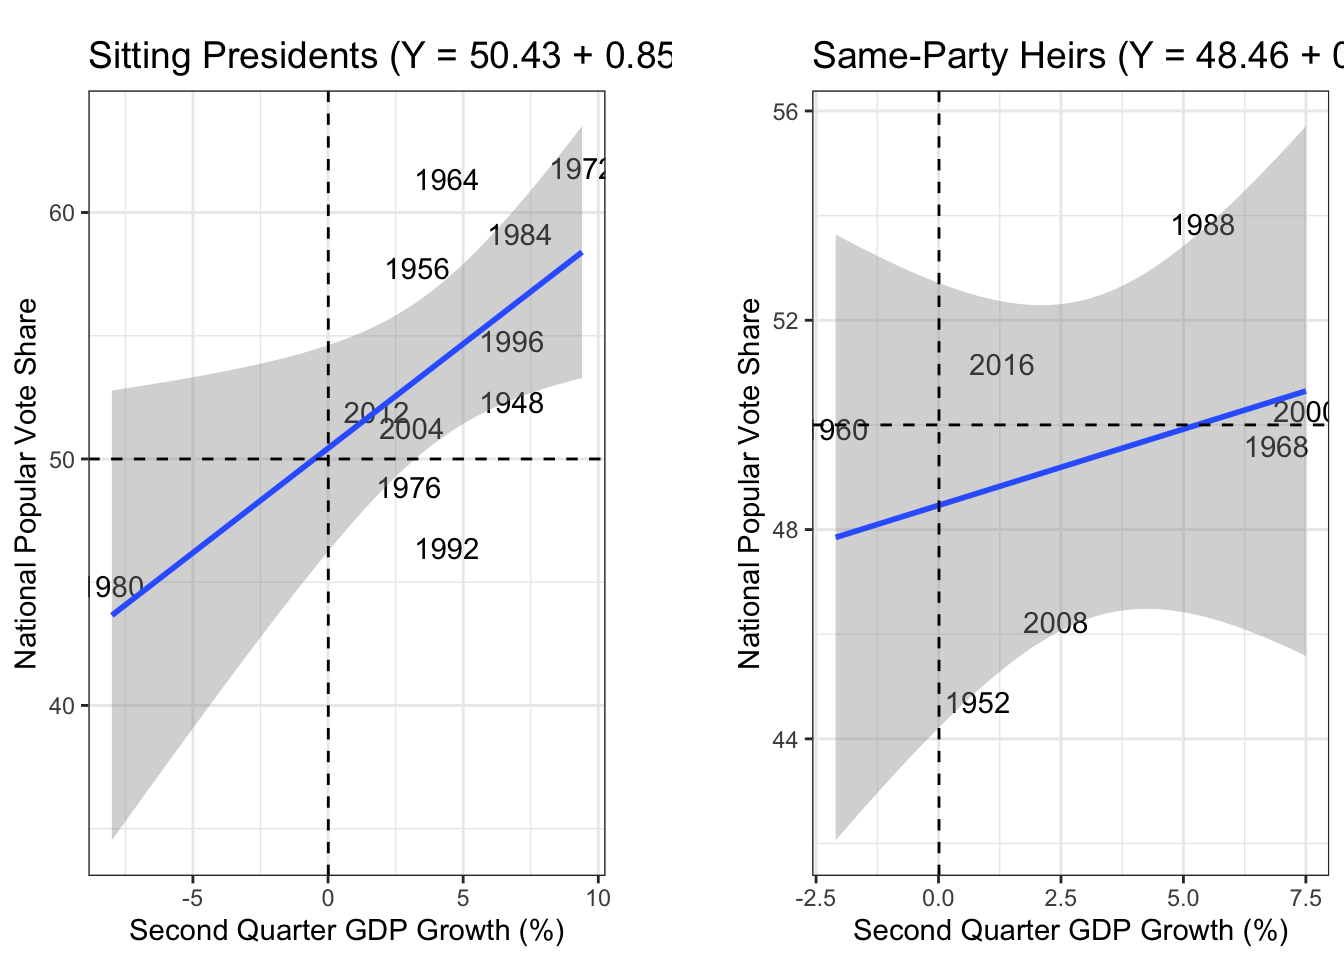
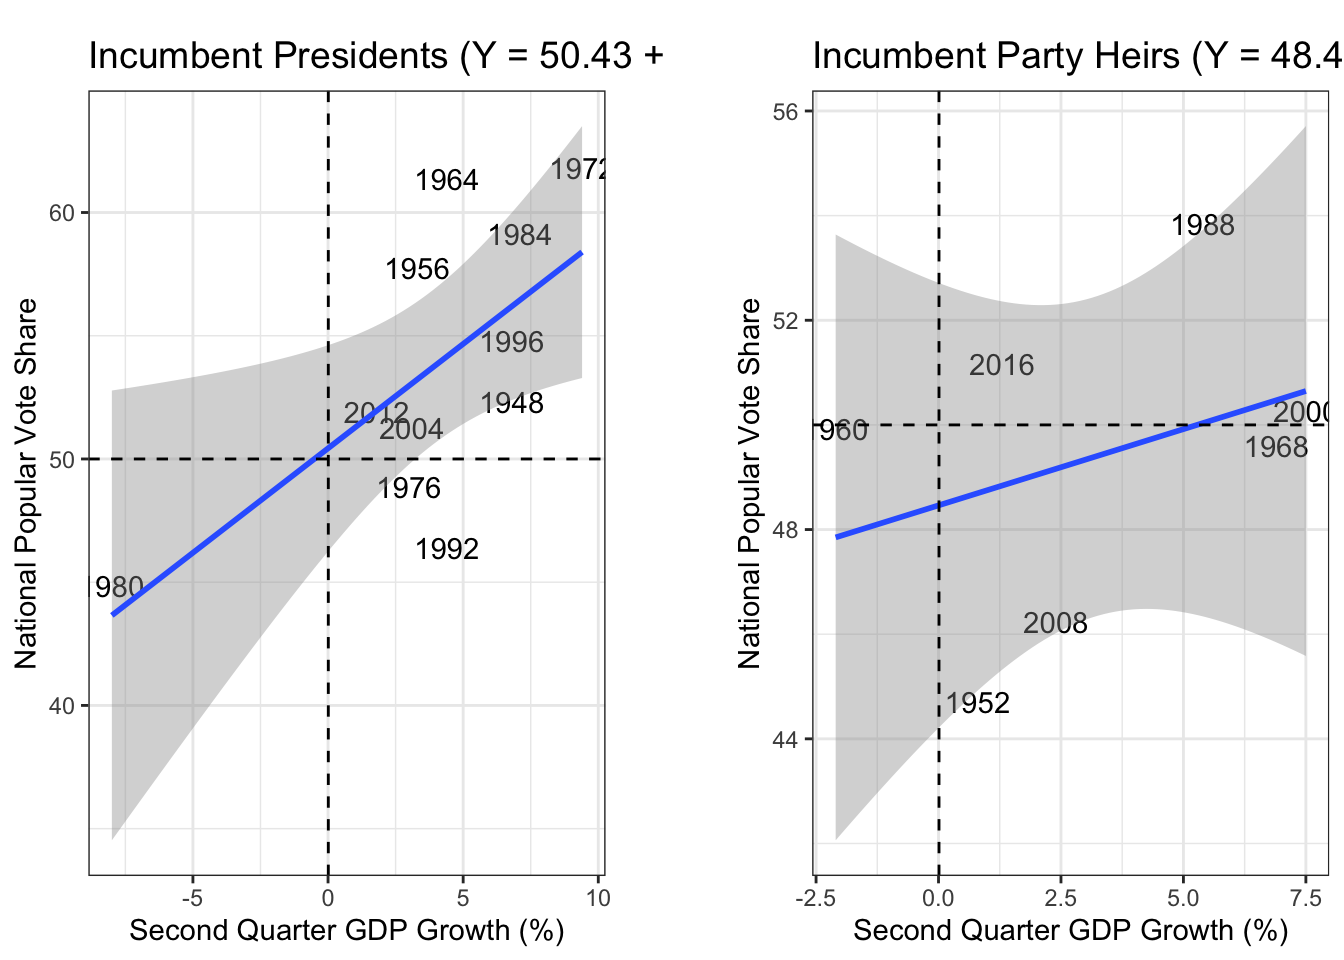
Final edits

Changed region(s): [[0.0625, 0.0312, 0.5, 0.0938], [0.5938, 0.0312, 1.0, 0.0938]]

diff --git a/public/post/2024/09/15/blog-post-2-factoring-in-economic-forces/index.html b/public/post/2024/09/15/blog-post-2-factoring-in-economic-forces/index.html
@@ -31,11 +31,8 @@
 <h2 id="introduction">Introduction</h2>
 <p>During election season, while the media focuses heavy attention on political rallies, fundraising numbers, and the chaotic political headlines that pass with each news cycle, many political scholars and strategists believe that certain &ldquo;fundamental&rdquo; factors, such as the strength or weakness of the economy, drive political trends much more than the billions of dollars presidential campaigns spend or the relative strengths and weaknesses of the candidates themselves. In this second blog post, I will seek to understand how predictive various economic measures, namely GDP growth and RDI growth, are of presidential election results, specifically the national popular vote share for the incumbent party.</p>
 <h2 id="historical-trends">Historical Trends</h2>
-<p>###Gross Domestic Product (GDP)</p>
+<h3 id="gross-domestic-product-gdp">Gross Domestic Product (GDP)</h3>
 <p>I will begin by looking at GDP growth data in relation to incumbent party vote share. Specifically, I will look at GDP growth in Quarter 2 (between April and June) of each election year, since this period is a fairly good representation of the short term economic outlook leading up to the election. The graphs below show the relationship between Q2 GDP growth and incumbent party vote share. The difference between the two below graphs is that the first includes the 2020 data point while the second graph does not. This difference is important given how much of an outlier 2020 was. Q2 in 2020 was at the height of the Covid-19 lockdown, and the country&rsquo;s economy was in a state of utter chaos. Thus, testing this relationship both with and without 2020 is important.</p>
-<pre><code>## Joining with `by = join_by(year)`
-## Joining with `by = join_by(year)`
-</code></pre>
 <img src="https://johnkulow.github.io/elections-blog/post/2024/09/15/blog-post-2-factoring-in-economic-forces/index_files/figure-html/unnamed-chunk-4-1.png" width="672" />
 <table style="border-collapse:collapse; border:none;">
 <caption style="font-weight: bold; text-align:left;">Q2 GDP Growth Regression Table (1948-2020)</caption>
@@ -189,18 +186,13 @@
 <h2 id="incumbents-vs-incumbents-heirs">Incumbents vs Incumbents&rsquo; Heirs</h2>
 <h3 id="gdp-growth">GDP growth</h3>
 <p>I will now look at whether these relationships hold up when the incumbent party&rsquo;s nominee is not the incumbent themselves. This distinction potentially matters because if the economy is doing particularly well or particularly poorly, voters may not respectively give credit or blame the incumbent party&rsquo;s candidate given that they were not in power to cause these changes. This distinction is of particular importance when looking at the 2024 election given that President Biden has stepped aside to allow his heir, Vice President Harris, to run instead.</p>
-<pre><code>## Joining with `by = join_by(year)`
-## Joining with `by = join_by(year)`
-## Joining with `by = join_by(year)`
-## Joining with `by = join_by(year)`
-</code></pre>
 <img src="https://johnkulow.github.io/elections-blog/post/2024/09/15/blog-post-2-factoring-in-economic-forces/index_files/figure-html/unnamed-chunk-11-1.png" width="672" />
 <table style="border-collapse:collapse; border:none;">
-<caption style="font-weight: bold; text-align:left;">Comparison Regression Table for Q2 GDP Growth (1948-2020)</caption>
+<caption style="font-weight: bold; text-align:left;">Q2 GDP Growth Regression Table</caption>
 <tr>
 <th style="border-top: double; text-align:center; font-style:normal; font-weight:bold; padding:0.2cm;  text-align:left; ">&nbsp;</th>
-<th colspan="4" style="border-top: double; text-align:center; font-style:normal; font-weight:bold; padding:0.2cm; ">Sitting Presidents</th>
-<th colspan="4" style="border-top: double; text-align:center; font-style:normal; font-weight:bold; padding:0.2cm; ">Same-Party Heirs</th>
+<th colspan="4" style="border-top: double; text-align:center; font-style:normal; font-weight:bold; padding:0.2cm; ">Incumbent Presidents</th>
+<th colspan="4" style="border-top: double; text-align:center; font-style:normal; font-weight:bold; padding:0.2cm; ">Incumbent Party Heirs</th>
 </tr>
 <tr>
 <td style=" text-align:center; border-bottom:1px solid; font-style:italic; font-weight:normal;  text-align:left; ">Predictors</td>
@@ -251,11 +243,11 @@
 <p>If we repeat this test for Q2 RDI growth, a similar story plays out</p>
 <img src="https://johnkulow.github.io/elections-blog/post/2024/09/15/blog-post-2-factoring-in-economic-forces/index_files/figure-html/unnamed-chunk-14-1.png" width="672" />
 <table style="border-collapse:collapse; border:none;">
-<caption style="font-weight: bold; text-align:left;">Comparison Regression Table for Q2 RDI Growth (1948-2020)</caption>
+<caption style="font-weight: bold; text-align:left;">Q2 RDI Growth Regression Table</caption>
 <tr>
 <th style="border-top: double; text-align:center; font-style:normal; font-weight:bold; padding:0.2cm;  text-align:left; ">&nbsp;</th>
-<th colspan="4" style="border-top: double; text-align:center; font-style:normal; font-weight:bold; padding:0.2cm; ">Sitting Presidents</th>
-<th colspan="4" style="border-top: double; text-align:center; font-style:normal; font-weight:bold; padding:0.2cm; ">Same-Party Heirs</th>
+<th colspan="4" style="border-top: double; text-align:center; font-style:normal; font-weight:bold; padding:0.2cm; ">Incumbent Presidents</th>
+<th colspan="4" style="border-top: double; text-align:center; font-style:normal; font-weight:bold; padding:0.2cm; ">Incumbent Party Heirs</th>
 </tr>
 <tr>
 <td style=" text-align:center; border-bottom:1px solid; font-style:italic; font-weight:normal;  text-align:left; ">Predictors</td>
@@ -301,7 +293,7 @@
 <td style=" padding:0.2cm; text-align:left; vertical-align:top; padding-top:0.1cm; padding-bottom:0.1cm; text-align:left;" colspan="4">0.206 / 0.047</td>
 </tr>
 </table>
-<p>As can be seen in the above graphs and regression chart, when the incumbent is not running for reelection the slope of the line of best fit decreases from 0.69 to -0.46, while the R squared value decreases from 0.198 to 0.047. This shows that when the incumbent party has a non-incumbent nominee, there is not even necessarily a positive correlation between Q2 RDI growth and incumbent party vote share, and the R squared value tells us that whatever relationship there is does not explain very much.</p>
+<p>As can be seen in the above graphs and regression table, when the incumbent is not running for reelection the slope of the line of best fit decreases from 0.69 to -0.46, while the R squared value decreases from 0.198 to 0.047. This shows that when the incumbent party has a non-incumbent nominee, there is not even necessarily a positive correlation between Q2 RDI growth and incumbent party vote share, and the R squared value tells us that whatever relationship there is does not explain very much.</p>
 <h2 id="2024-prediction">2024 Prediction</h2>
 <p>While these models and relationships are certainly imperfect, that does not mean they do not carry any predictive power, as the relative strength or weakness of the economy has an undeniably large impact on the election, even if it does not completely explain to results. As such, I have made the following predictive models for how much of the national popular vote Vice President Harris will win:</p>
 <p>Based off of Q2 GDP Growth:</p>

diff --git a/content/post/2024-09-15-blog-post-2-factoring-in-economic-forces/index.md b/content/post/2024-09-15-blog-post-2-factoring-in-economic-forces/index.md
@@ -12,7 +12,7 @@ tags: []
 During election season, while the media focuses heavy attention on political rallies, fundraising numbers, and the chaotic political headlines that pass with each news cycle, many political scholars and strategists believe that certain "fundamental" factors, such as the strength or weakness of the economy, drive political trends much more than the billions of dollars presidential campaigns spend or the relative strengths and weaknesses of the candidates themselves. In this second blog post, I will seek to understand how predictive various economic measures, namely GDP growth and RDI growth, are of presidential election results, specifically the national popular vote share for the incumbent party.
 
 ## Historical Trends
-###Gross Domestic Product (GDP)
+### Gross Domestic Product (GDP)
 
 I will begin by looking at GDP growth data in relation to incumbent party vote share. Specifically, I will look at GDP growth in Quarter 2 (between April and June) of each election year, since this period is a fairly good representation of the short term economic outlook leading up to the election. The graphs below show the relationship between Q2 GDP growth and incumbent party vote share. The difference between the two below graphs is that the first includes the 2020 data point while the second graph does not. This difference is important given how much of an outlier 2020 was. Q2 in 2020 was at the height of the Covid-19 lockdown, and the country's economy was in a state of utter chaos. Thus, testing this relationship both with and without 2020 is important. 
 
@@ -23,10 +23,6 @@ I will begin by looking at GDP growth data in relation to incumbent party vote s
 
 
 
-```
-## Joining with `by = join_by(year)`
-## Joining with `by = join_by(year)`
-```
 
 <img src="{{< blogdown/postref >}}index_files/figure-html/unnamed-chunk-4-1.png" width="672" />
 
@@ -200,21 +196,15 @@ As can be seen in both the graphs and the coressponding regression tables, the 2
 I will now look at whether these relationships hold up when the incumbent party's nominee is not the incumbent themselves. This distinction potentially matters because if the economy is doing particularly well or particularly poorly, voters may not respectively give credit or blame the incumbent party's candidate given that they were not in power to cause these changes. This distinction is of particular importance when looking at the 2024 election given that President Biden has stepped aside to allow his heir, Vice President Harris, to run instead. 
 
 
-```
-## Joining with `by = join_by(year)`
-## Joining with `by = join_by(year)`
-## Joining with `by = join_by(year)`
-## Joining with `by = join_by(year)`
-```
 
 <img src="{{< blogdown/postref >}}index_files/figure-html/unnamed-chunk-11-1.png" width="672" />
 
 <table style="border-collapse:collapse; border:none;">
-<caption style="font-weight: bold; text-align:left;">Comparison Regression Table for Q2 GDP Growth (1948-2020)</caption>
+<caption style="font-weight: bold; text-align:left;">Q2 GDP Growth Regression Table</caption>
 <tr>
 <th style="border-top: double; text-align:center; font-style:normal; font-weight:bold; padding:0.2cm;  text-align:left; ">&nbsp;</th>
-<th colspan="4" style="border-top: double; text-align:center; font-style:normal; font-weight:bold; padding:0.2cm; ">Sitting Presidents</th>
-<th colspan="4" style="border-top: double; text-align:center; font-style:normal; font-weight:bold; padding:0.2cm; ">Same-Party Heirs</th>
+<th colspan="4" style="border-top: double; text-align:center; font-style:normal; font-weight:bold; padding:0.2cm; ">Incumbent Presidents</th>
+<th colspan="4" style="border-top: double; text-align:center; font-style:normal; font-weight:bold; padding:0.2cm; ">Incumbent Party Heirs</th>
 </tr>
 <tr>
 <td style=" text-align:center; border-bottom:1px solid; font-style:italic; font-weight:normal;  text-align:left; ">Predictors</td>
@@ -274,11 +264,11 @@ If we repeat this test for Q2 RDI growth, a similar story plays out
 <img src="{{< blogdown/postref >}}index_files/figure-html/unnamed-chunk-14-1.png" width="672" />
 
 <table style="border-collapse:collapse; border:none;">
-<caption style="font-weight: bold; text-align:left;">Comparison Regression Table for Q2 RDI Growth (1948-2020)</caption>
+<caption style="font-weight: bold; text-align:left;">Q2 RDI Growth Regression Table</caption>
 <tr>
 <th style="border-top: double; text-align:center; font-style:normal; font-weight:bold; padding:0.2cm;  text-align:left; ">&nbsp;</th>
-<th colspan="4" style="border-top: double; text-align:center; font-style:normal; font-weight:bold; padding:0.2cm; ">Sitting Presidents</th>
-<th colspan="4" style="border-top: double; text-align:center; font-style:normal; font-weight:bold; padding:0.2cm; ">Same-Party Heirs</th>
+<th colspan="4" style="border-top: double; text-align:center; font-style:normal; font-weight:bold; padding:0.2cm; ">Incumbent Presidents</th>
+<th colspan="4" style="border-top: double; text-align:center; font-style:normal; font-weight:bold; padding:0.2cm; ">Incumbent Party Heirs</th>
 </tr>
 <tr>
 <td style=" text-align:center; border-bottom:1px solid; font-style:italic; font-weight:normal;  text-align:left; ">Predictors</td>
@@ -326,7 +316,7 @@ If we repeat this test for Q2 RDI growth, a similar story plays out
 
 </table>
 
-As can be seen in the above graphs and regression chart, when the incumbent is not running for reelection the slope of the line of best fit decreases from 0.69 to -0.46, while the R squared value decreases from 0.198 to 0.047. This shows that when the incumbent party has a non-incumbent nominee, there is not even necessarily a positive correlation between Q2 RDI growth and incumbent party vote share, and the R squared value tells us that whatever relationship there is does not explain very much.
+As can be seen in the above graphs and regression table, when the incumbent is not running for reelection the slope of the line of best fit decreases from 0.69 to -0.46, while the R squared value decreases from 0.198 to 0.047. This shows that when the incumbent party has a non-incumbent nominee, there is not even necessarily a positive correlation between Q2 RDI growth and incumbent party vote share, and the R squared value tells us that whatever relationship there is does not explain very much.
 
 ## 2024 Prediction
 
